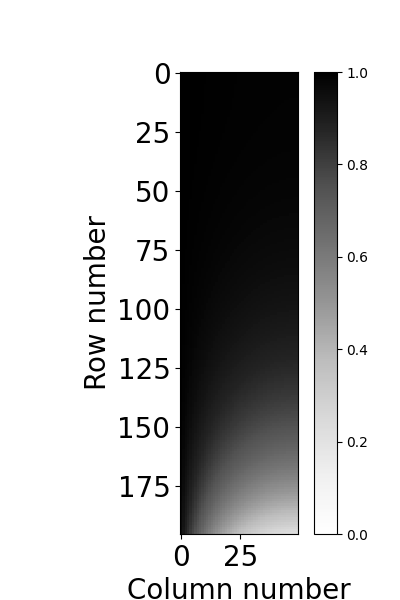
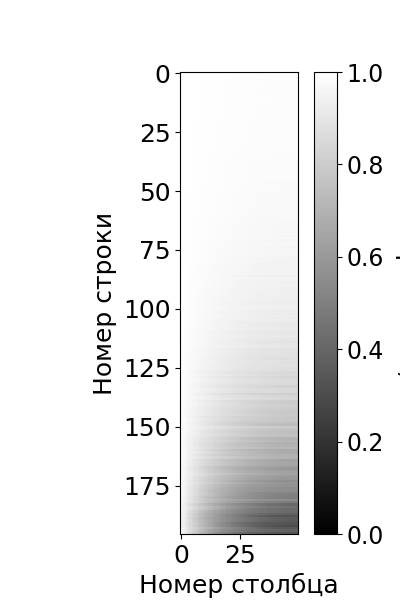
m

diff --git a/Memristor/stuck_elements_tests/data_100_new_1kom_20kom/voltage_drop/plot_voltage.py b/Memristor/stuck_elements_tests/data_100_new_1kom_20kom/voltage_drop/plot_voltage.py
@@ -12,21 +12,32 @@ applied_voltages = np.ones([196, 1])
 
 torch.set_printoptions(threshold=10_000)
 
-
+fig = plt.figure(figsize=(4, 6))
 # w =np.full((196, 50), 10000)
 w1=np.full([196, 50], 1000)
-w = np.random.randint(1000, 20000, size=(196, 50))
-
-fig = plt.figure(figsize=(4, 6))
-solution = badcrossbar.compute(applied_voltages, w1, 2)
-plt.imshow(solution.voltages.word_line,cmap='Grays', vmin=0, vmax=1, interpolation='None')
-plt.colorbar()
-
-
-plt.xlabel("Column number", fontsize=20)
-plt.ylabel("Row number", fontsize=20)
+w1= np.random.randint(1, 20, size=(196, 50))
+y1 = plt.imshow(w1, cmap="gray", interpolation='None')
+x1=plt.colorbar(y1)
+x1.set_label(label = "Сопротивление, кОм",  fontsize=18, rotation=270, labelpad=25)
+x1.ax.tick_params(labelsize=17)
+plt.xlabel("Номер столбца", fontsize=18)
+plt.ylabel("Номер строки", fontsize=18)
 # plt.grid(True)
-plt.tick_params(axis='both', which='major', labelsize=20)
-plt.savefig("fig0")
+plt.tick_params(axis='both', which='major', labelsize=18)
+plt.tight_layout()
+plt.show()
 
+
+solution = badcrossbar.compute(applied_voltages, w1, 10)
+y = plt.imshow(solution.voltages.word_line, cmap="gray", vmin=0, vmax=1, interpolation='None')
+x=plt.colorbar(y)
+x.set_label(label = "Напряжение, В",  fontsize=18, rotation=270, labelpad=25)
+x.ax.tick_params(labelsize=17)
+
+plt.xlabel("Номер столбца", fontsize=18)
+plt.ylabel("Номер строки", fontsize=18)
+# plt.grid(True)
+plt.tick_params(axis='both', which='major', labelsize=18)
+plt.savefig("fig0")
+plt.tight_layout()
 plt.show()

diff --git a/Memristor/stuck_elements_tests/data_MNIST_min_max_R/result1+result2/plot_results.py b/Memristor/stuck_elements_tests/data_MNIST_min_max_R/result1+result2/plot_results.py
@@ -14,12 +14,24 @@ moving_avg[0] = 75
 moving_avg[1] = 76
 moving_avg[-1] = 76
 moving_avg[-2] = 76
-plt.scatter(x, d, marker="." ,alpha=0.8, label='Исходные точки')
-mean_val = np.mean(d)
-plt.axhline(y=mean_val, color='gray', linestyle='--', linewidth=1,
-            label=f'Среднее: 77.2')
-
-plt.plot(x, moving_avg, 'black', linewidth=2)
-plt.legend()
+print(d)
+d1 = [76.95, 77.6, 76.0, 76.5, 77.13, 76.95, 75.56, 74.55, 76.4, 75.71, 74.23, 74.0, 73.21, 75.98, 72.55, 74.0, 72.85, 75.4, 72.04, 74.18, 73.17, 74.21, 73.75, 74.19, 72.3, 73.53, 74.4, 72.35, 72.35, 74.8, 73.41, 71.98, 72.12, 71.79, 73.0, 71.18, 72.76, 71.41, 69.05, 70.18, 69.05, 69.84, 70.21, 71.6, 69.6, 70.6, 71.41, 70.97, 69.8, 70.8]
+plt.scatter(x, d1, marker="." ,alpha=0.8, label='Исходные точки')
+# mean_val = np.mean(d)
+# plt.axhline(y=mean_val, color='gray', linestyle='--', linewidth=1,
+#             label=f'Среднее: 77.2')
+A = np.vstack([x, np.ones(len(x))]).T
+a, b = np.linalg.lstsq(A, d1, rcond=None)[0]
+x_fit = np.linspace(min(x), max(x), 100)
+y_fit = a * x_fit + b
+plt.plot(x_fit, y_fit,  "--", color="black", label=f'МНК: y={a:.1f}x+{b:.1f}', linewidth=1)
+y_fit = a * x_fit + b
+# plt.plot(x, moving_avg, 'black', linewidth=2)
+plt.xlabel("Количество залипших элементов, %", fontsize=13)
+plt.ylabel("Точность распознавания, %", fontsize=13)
+plt.grid(True, alpha=0.3)
+plt.ylim(bottom=60, top = 82)
+plt.legend(fontsize=12)
+plt.savefig("plot_result.png")
 plt.show()
 

diff --git a/data/Sound/database/example/test.py b/data/Sound/database/example/test.py
@@ -1,0 +1,58 @@
+import numpy as np
+from get_data import read_data_full
+
+import matplotlib.pyplot as plt
+import torch.nn.functional as F
+
+#X = np.expand_dims(X, axis=-1)  # форма (N, 28, 28, 1)
+import torch
+import kornia.filters as KF
+
+from PIL import Image
+import torchvision.transforms as transforms
+
+
+
+
+image_path = "2.JPG"
+image = Image.open(image_path).convert('L')  # 'L' - режим оттенков серого
+
+# Преобразование в тензор
+transform = transforms.ToTensor()
+output_tensor= transform(image)
+
+
+
+
+
+
+plt.imshow(output_tensor.squeeze(),cmap='binary')
+plt.show()
+kernel = torch.tensor([
+    [-1.,-1., -1.],
+    [-1.,  9., -1.],
+    [-1., -1., -1.]
+])/10
+kernel = kernel.unsqueeze(0).unsqueeze(0)
+new_t=F.conv2d(output_tensor, kernel, padding=0)
+
+
+plt.imshow(new_t.squeeze(), cmap='binary')
+plt.title(f'conv2d')
+plt.show()
+# Plot in the second position
+
+# plt.subplot(1, 5, 4)
+# edges = KF.sobel(output_tensor)
+# plt.imshow(edges.squeeze(),cmap='binary')
+# plt.title(f'sobel')
+
+
+
+edges1 = KF.canny(output_tensor.unsqueeze(1))
+plt.imshow(edges1[0].squeeze(),cmap='binary')
+plt.title(f'canny')
+plt.tight_layout()
+plt.show()
+
+print(y)

diff --git a/Memristor/stuck_elements_tests/data_MNIST_min_max_R/result_inference/plot_result_inference.py b/Memristor/stuck_elements_tests/data_MNIST_min_max_R/result_inference/plot_result_inference.py
@@ -1,0 +1,27 @@
+import numpy as np
+import matplotlib.pyplot as plt
+
+# Пример набора точек
+x = np.array([0.01, 0.02, 0.05,0.1, 0.15, 0.2, 0.25, 0.3, 0.35, 0.4, 0.45, 0.5,0.55, 0.6, 0.65, 0.7, 0.75, 0.8, 0.85])*100
+y = np.array([74.8, 74, 74.5, 74, 73.8, 70,64,61,63,56,51,61,57,44, 40, 42, 45, 42, 43]) +2
+
+# МНК для линейной регрессии y = a*x + b
+
+plt.scatter(x, y, marker="." ,alpha=0.8, label='Исходные точки')
+# mean_val = np.mean(d)
+# plt.axhline(y=mean_val, color='gray', linestyle='--', linewidth=1,
+#             label=f'Среднее: 77.2')
+A = np.vstack([x, np.ones(len(x))]).T
+a, b = np.linalg.lstsq(A, y, rcond=None)[0]
+x_fit = np.linspace(min(x), max(x), 100)
+y_fit = a * x_fit + b
+plt.plot(x_fit, y_fit,  "--", color="black", label=f'МНК: y={a:.1f}x+{b:.1f}', linewidth=1)
+y_fit = a * x_fit + b
+# plt.plot(x, moving_avg, 'black', linewidth=2)
+plt.xlabel("Количество залипших элементов, %", fontsize=13)
+plt.ylabel("Точность распознавания, %", fontsize=13)
+plt.grid(True, alpha=0.3)
+#plt.ylim(bottom=60, top = 85)
+plt.legend(fontsize=12)
+plt.savefig("plot_inference.png")
+plt.show()

diff --git a/Memristor/stuck_elements_tests/experimental_data/5 lrs.py b/Memristor/stuck_elements_tests/experimental_data/5 lrs.py
@@ -13,14 +13,14 @@ print(df.iloc[:,0])
 
 plt.scatter(df.iloc[:,0], df.iloc[:,1], marker='o', s = 7, label = "HRS")
 
-plt.xlabel("Spike number", fontsize=13)
-plt.ylabel("Voltage, V", fontsize=13)
+plt.xlabel("Номер импульса", fontsize=13)
+plt.ylabel("Напряжение, В", fontsize=13)
 plt.grid(True, alpha=0.3)
-# plt.ylim(bottom=-2)
+plt.ylim(bottom=0)
 # plt.xlim(left = 239)
 
 # Легенда
-plt.legend()
+plt.legend(fontsize=13)
 plt.tick_params(axis='both', which='major', labelsize=13)
 plt.tight_layout()
 fig.savefig("5 lrs")
